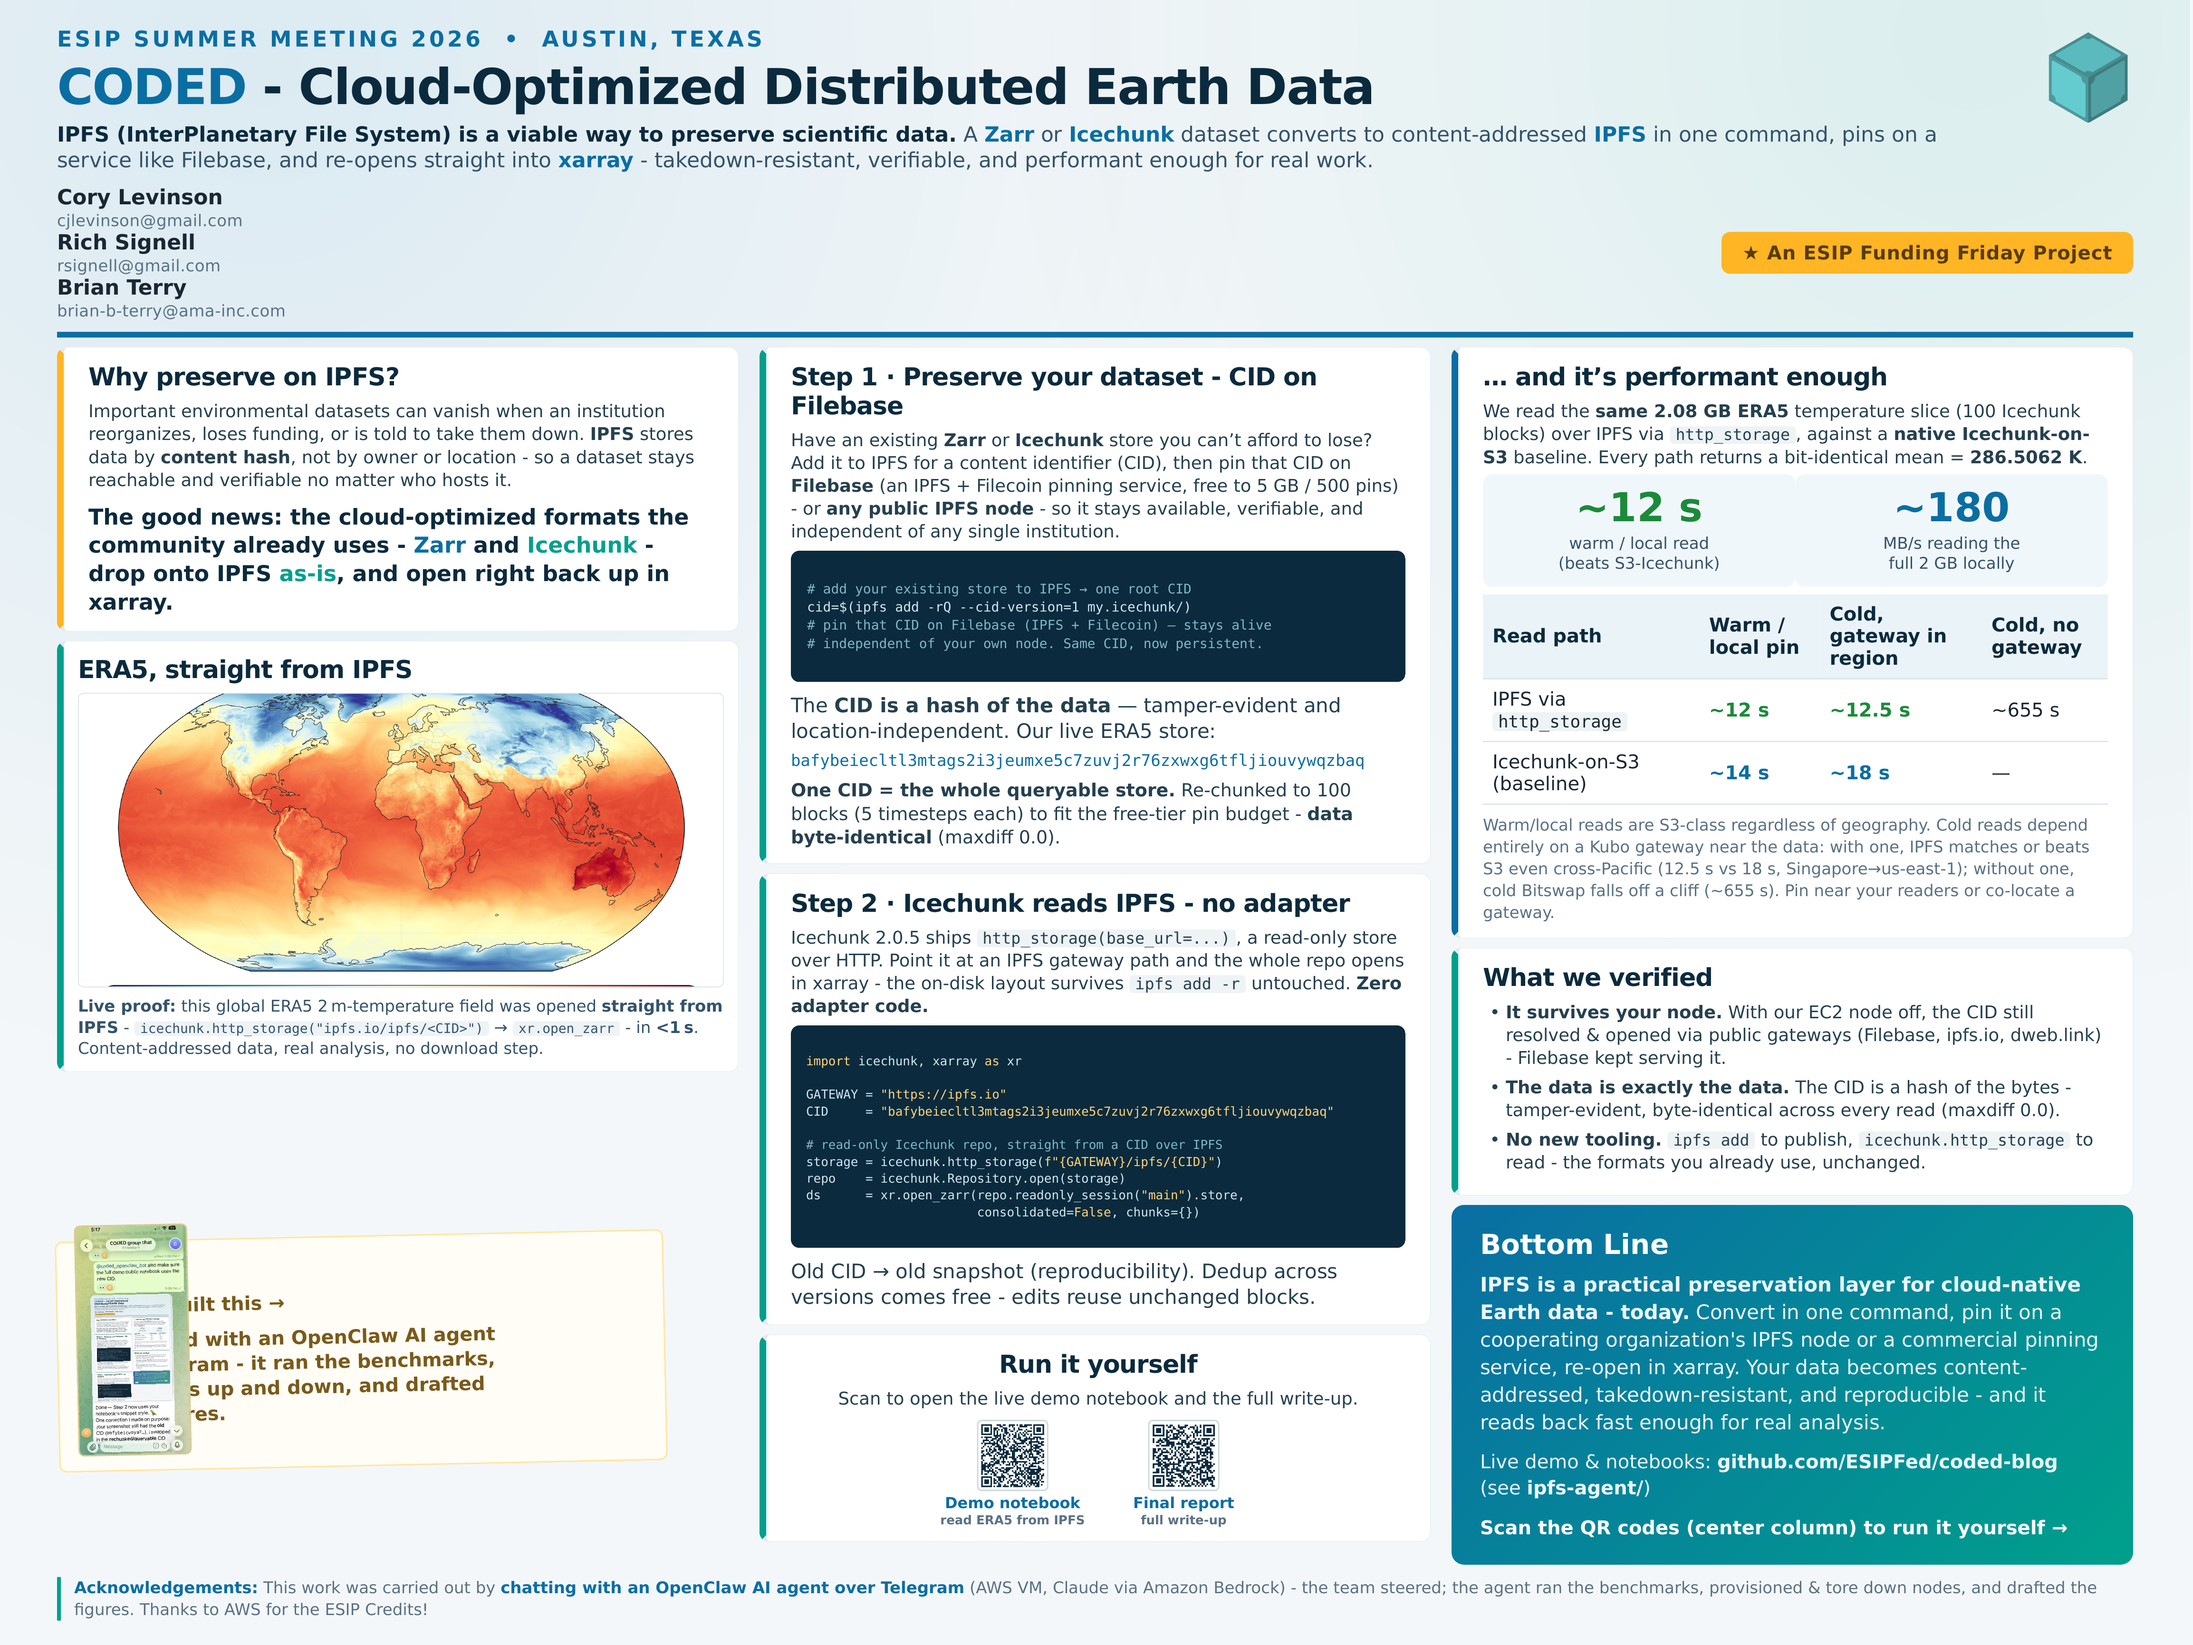
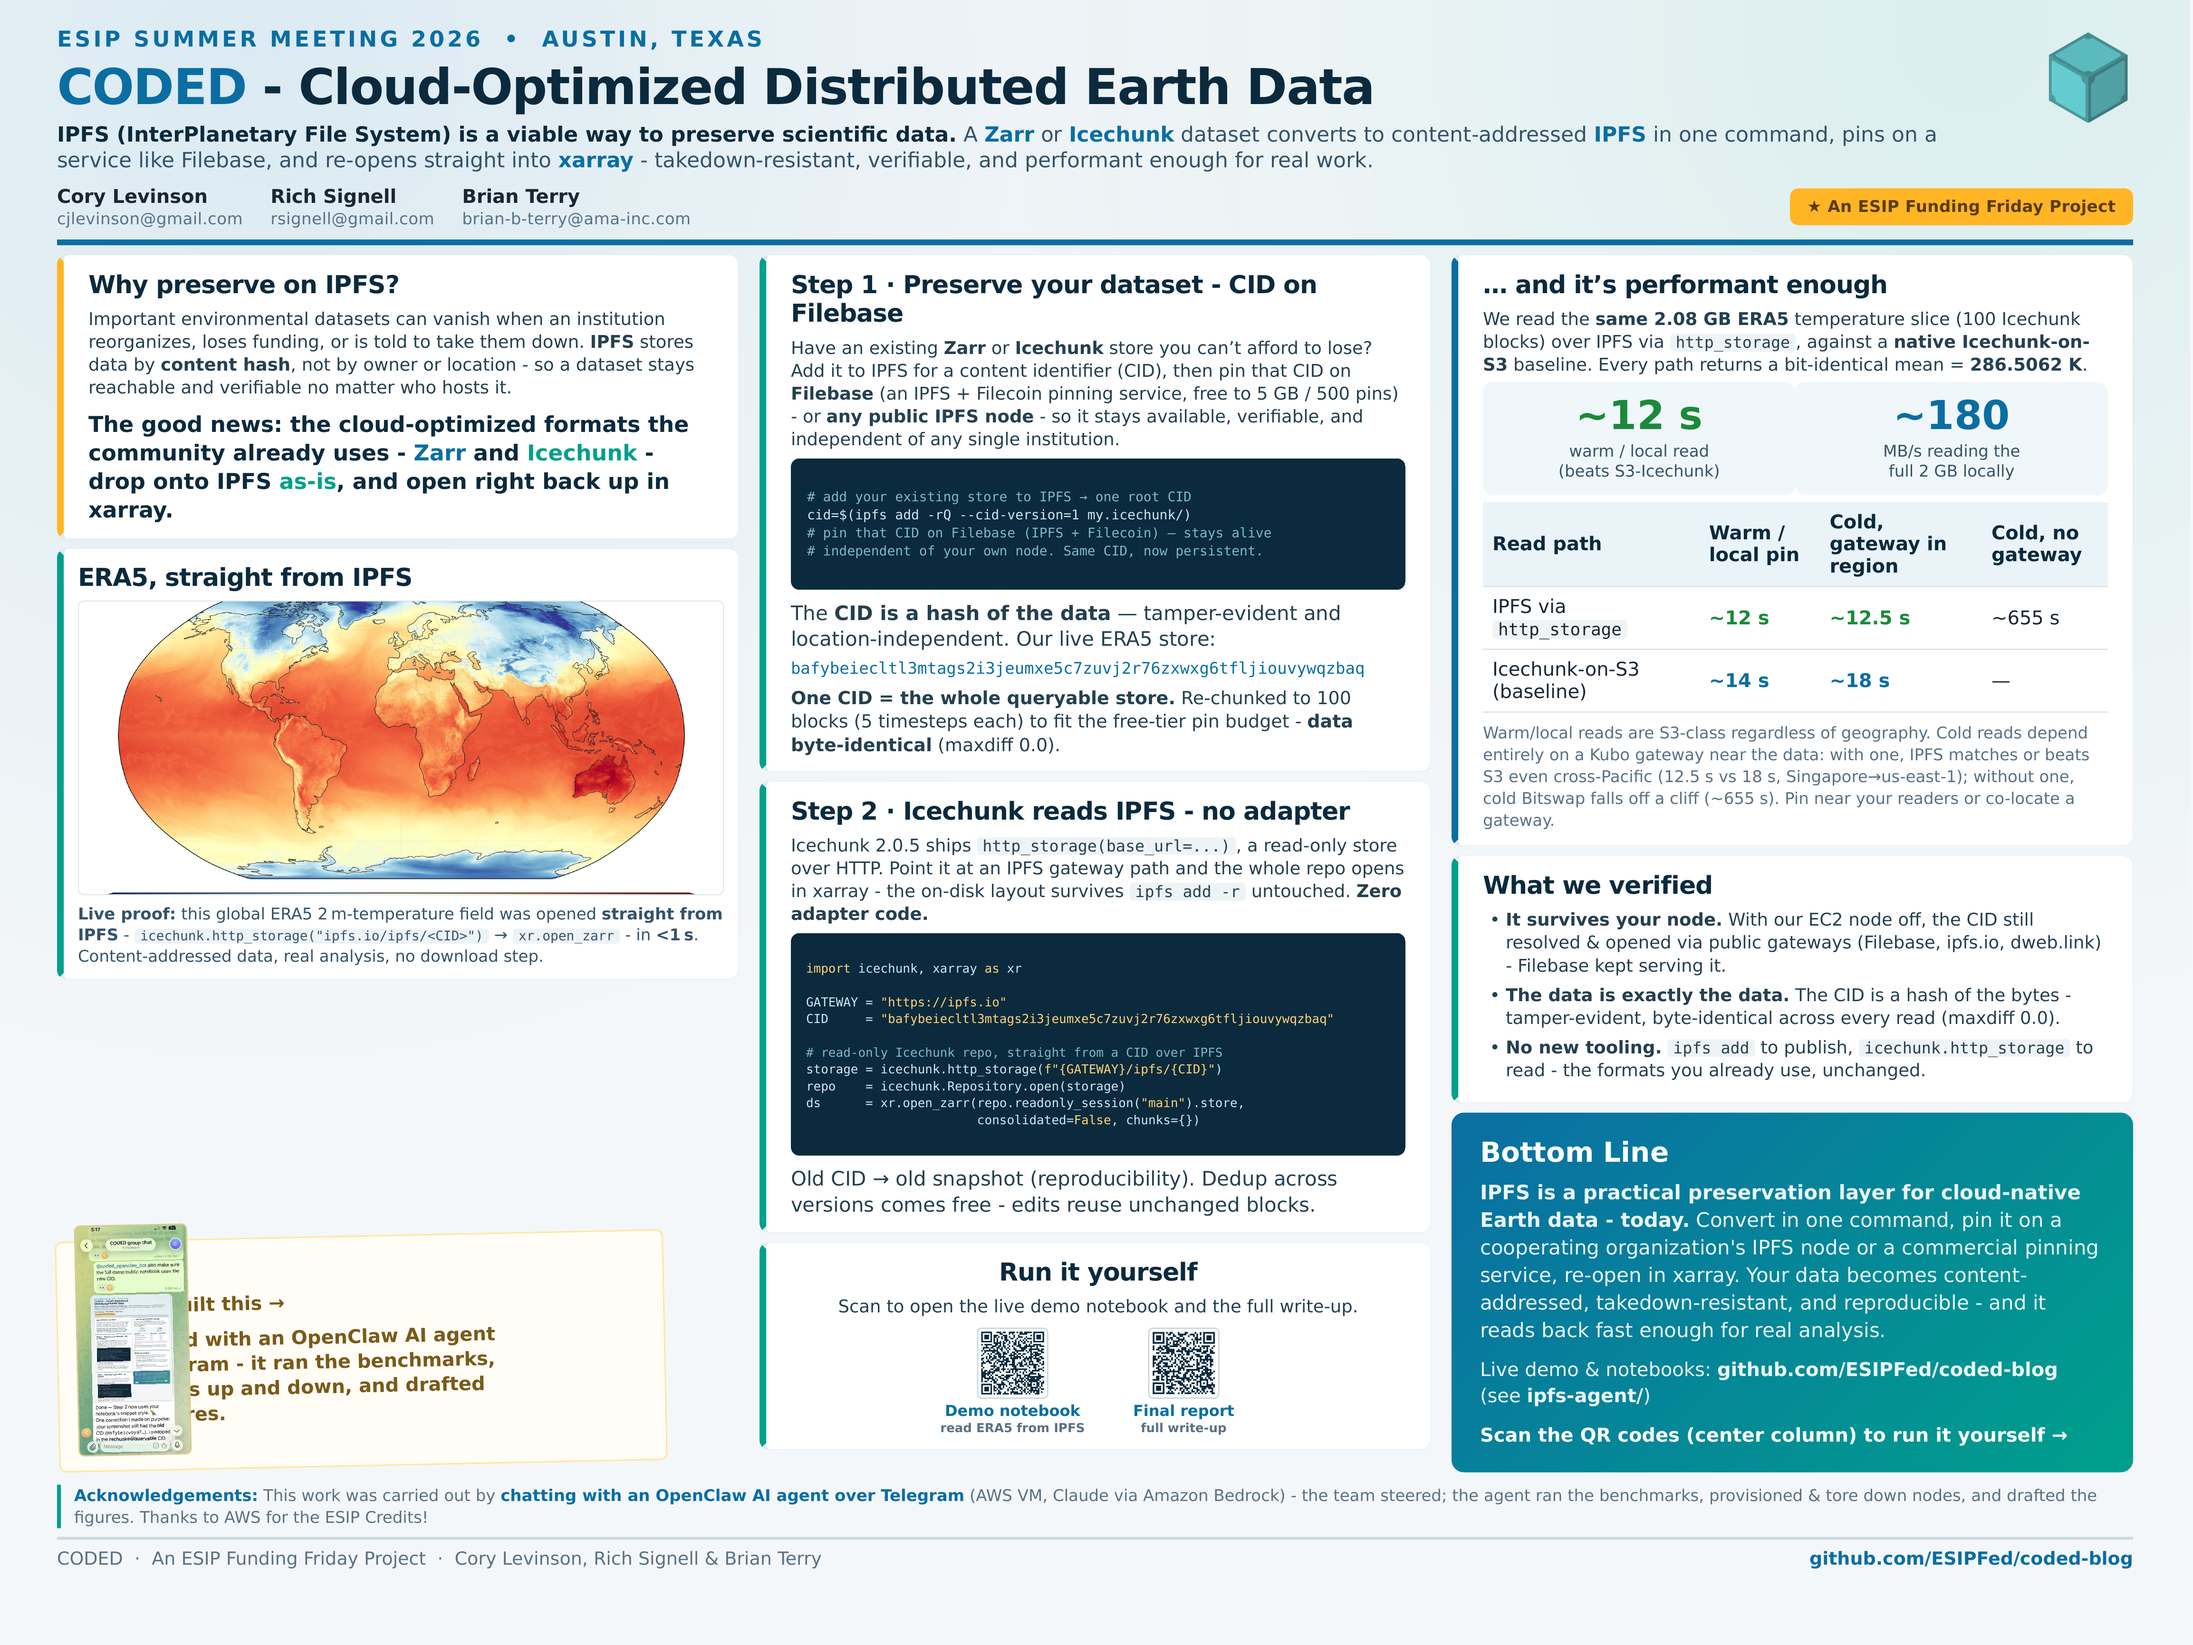
Landscape v7: all three authors on one line (fix WeasyPrint flex-gap collapse via inline-block persons); single-line ESIP badge

Changed region(s): [[0.0, 0.0936, 0.9987, 0.9983]]

diff --git a/ipfs-agent/posters/esip_ipfs_poster_v7_landscape.html b/ipfs-agent/posters/esip_ipfs_poster_v7_landscape.html
@@ -48,16 +48,16 @@
   }
   .authorrow {
     margin-top: 26px;
-    display: flex; flex-direction: row; flex-wrap: wrap;
+    display: flex; flex-direction: row; flex-wrap: nowrap;
     align-items: center; justify-content: space-between;
-    gap: 30px 60px;
+    gap: 40px;
   }
   .authors {
-    display: flex; flex-direction: row; flex-wrap: wrap;
-    align-items: baseline; gap: 20px 64px;
-    font-size: 44px; color: #1a2733; font-weight: 700;
+    display: block; flex-shrink: 0;
+    font-size: 40px; color: #1a2733; font-weight: 700;
   }
-  .authors .person { white-space: nowrap; }
+  .authors .person { white-space: nowrap; margin-right: 44px; display: inline-block; vertical-align: top; }
+  .authors .person:last-child { margin-right: 0; }
   .authors .person em {
     display: block; font-style: normal; font-weight: 500;
     font-size: 34px; color: #5a7184; margin-top: 4px;
@@ -66,8 +66,8 @@
   .ff-badge {
     flex: 0 0 auto; text-align: center; white-space: nowrap;
     background: #ffb524; color: #5a3c00;
-    font-size: 40px; font-weight: 800; letter-spacing: 1px;
-    padding: 22px 44px; border-radius: 18px;
+    font-size: 34px; font-weight: 800; letter-spacing: 0.5px;
+    padding: 20px 36px; border-radius: 18px;
     line-height: 1.1;
   }
 
